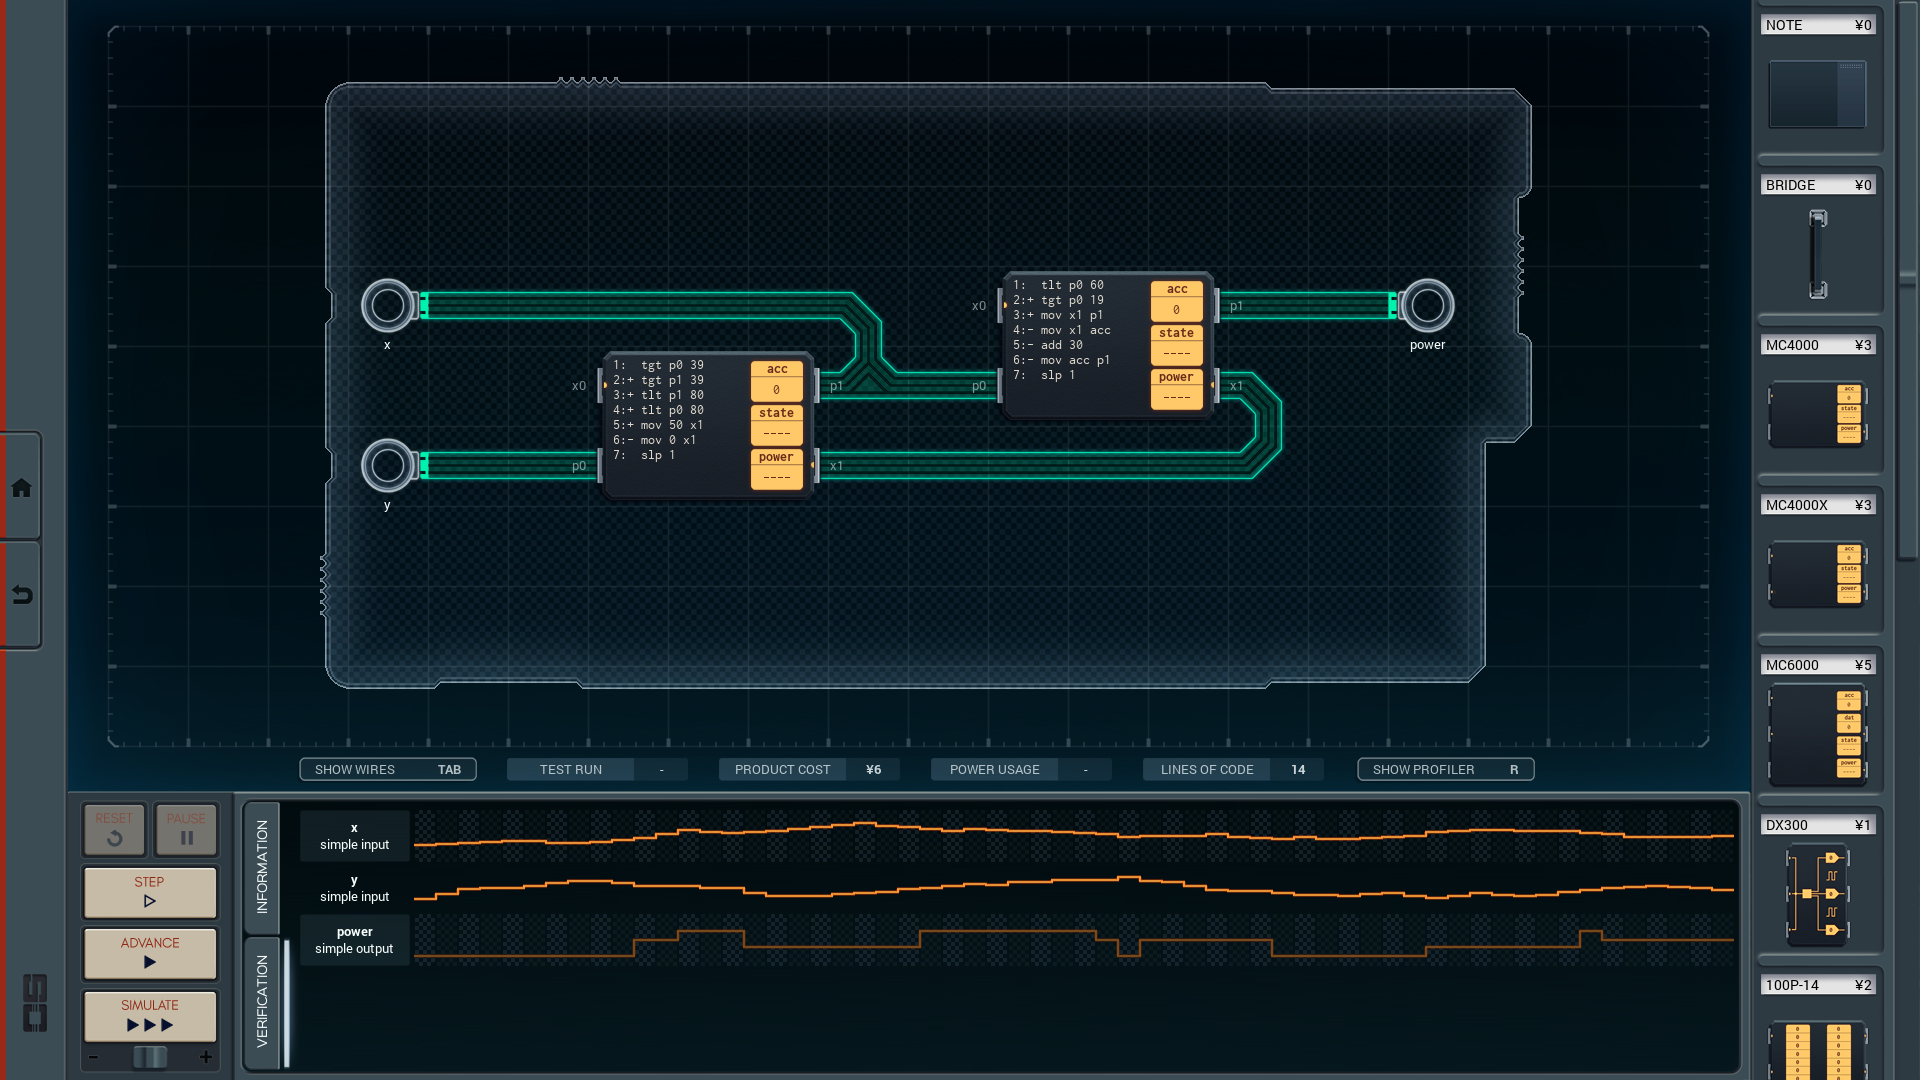
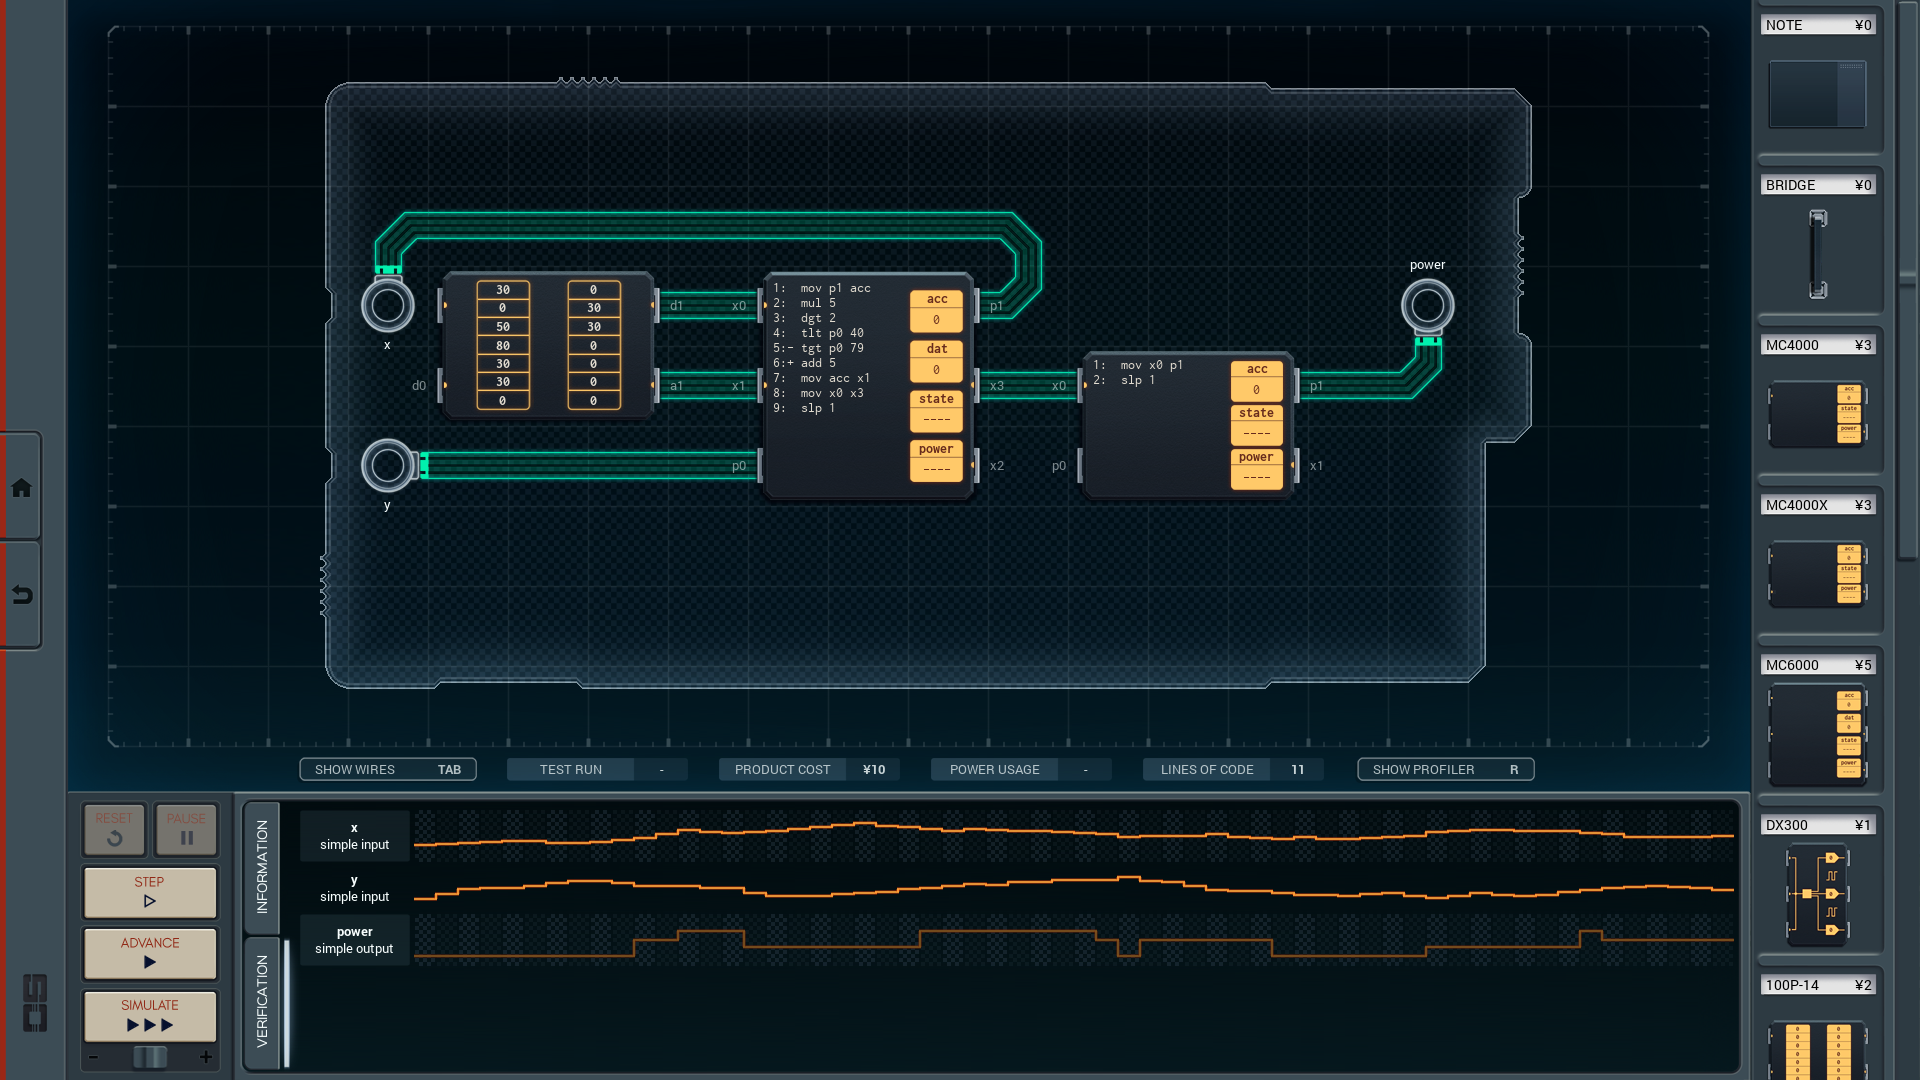
2023/04/17 Optimized the Unknown Optimization Device solutions
=== #1: MIN LINES -> MIN COST===
[BEF] 6C / 650P / 13L
[AFT] 6C / 645P / 13L

=== #2: MIN POWER -> MIN LINES & POWER ===
[BEF] 6C / 621P / 14L
[AFT] 10C / 607P / 11L

Changed region(s): [[0.1875, 0.1833, 0.75, 0.4583]]

diff --git a/012-unknown-optimization-device/README.md b/012-unknown-optimization-device/README.md
@@ -1,9 +1,9 @@
-6/650/13 (MIN LINES) SOLUTION
+6/645/13 (MIN COST) SOLUTION
 -----------------------------
 
 ![screenshot0](https://github.com/shiawasenahikari/Shenzhen-IO-Solutions/blob/master/012-unknown-optimization-device/screenshot0.png)
 
-6/621/14 (MIN POWER) SOLUTION
+10/607/11 (MIN LINES & POWER) SOLUTION
 -----------------------------
 
 ![screenshot1](https://github.com/shiawasenahikari/Shenzhen-IO-Solutions/blob/master/012-unknown-optimization-device/screenshot1.png)
